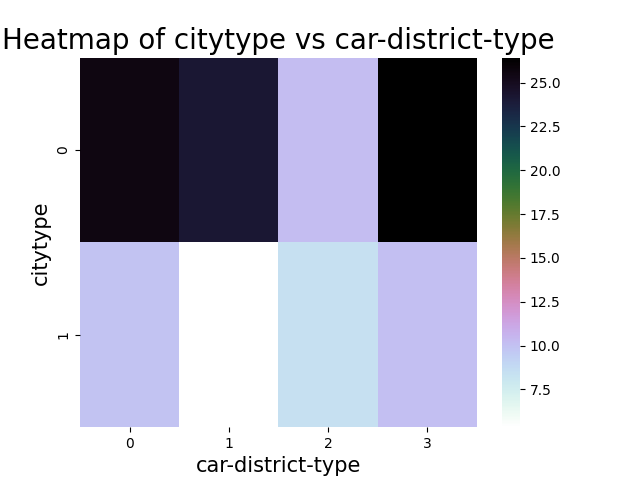
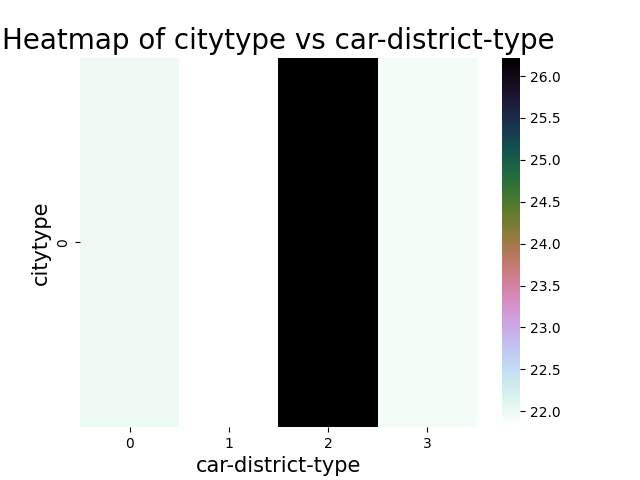
finsish a16823

diff --git a/a16823_ca_simulate_transport3/i4simulate_path_with_citymap.py b/a16823_ca_simulate_transport3/i4simulate_path_with_citymap.py
@@ -1,0 +1,298 @@
+
+import numpy as np
+import matplotlib.pyplot as plt
+import matplotlib.animation as animation
+from termcolor import colored, cprint
+
+import random
+import time
+import statistics
+from matplotlib import pyplot
+import seaborn as sns
+
+from mygrid import Grid
+from my_unittype import unit_types, inners, parkings, heats
+from car_district_setting import CarSetting
+from visualization import visulize_to_png, show_img, show_simplify_to_path
+import i2simulator 
+
+
+ALL_PATHS = []
+
+
+def mycar_walking(start, end, generated_map=[]):
+    # 待访问的格子
+    open_list = []
+    # 已访问的格子
+    close_list = []
+    # 把起点加入open_list
+    open_list.append(start)
+    # 主循环，每一轮检查一个当前方格节点
+    while len(open_list) > 0:
+        # 在open_list中查找 F值最小的节点作为当前方格节点
+        current_grid = find_current_grid(open_list)
+        # 当前方格节点从openList中移除
+        open_list.remove(current_grid)
+        # 当前方格节点进入 closeList
+        close_list.append(current_grid)
+        # 找到所有邻近节点
+        neighbors = find_neighbors(current_grid, open_list, close_list, generated_map)
+        for grid in neighbors:
+            if grid not in open_list:
+                # 邻近节点不在openList中，标记父亲、G、H、F，并放入openList
+                grid.init_grid(current_grid, end)
+                open_list.append(grid)
+        # 如果终点在openList中，直接返回终点格子
+        for grid in open_list:
+            if (grid.x == end.x) and (grid.y == end.y):
+                return grid
+    # openList用尽，仍然找不到终点，说明终点不可到达，返回空
+    return None
+
+
+def find_current_grid(open_list=[]):
+    temp_grid = open_list[0]
+    for grid in open_list:
+        if grid.f < temp_grid.f:
+            temp_grid = grid
+    return temp_grid
+
+
+def find_neighbors(grid, open_list=[], close_list=[], generated_map=[]):
+    grid_list = []
+    if is_valid_grid(grid.x, grid.y - 1, open_list, close_list, generated_map):
+        grid_list.append(Grid(grid.x, grid.y - 1))
+    if is_valid_grid(grid.x, grid.y + 1, open_list, close_list, generated_map):
+        grid_list.append(Grid(grid.x, grid.y + 1))
+    if is_valid_grid(grid.x - 1, grid.y, open_list, close_list, generated_map):
+        grid_list.append(Grid(grid.x - 1, grid.y))
+    if is_valid_grid(grid.x + 1, grid.y, open_list, close_list, generated_map):
+        grid_list.append(Grid(grid.x + 1, grid.y))
+    return grid_list
+
+
+def is_valid_grid(x, y, open_list=[], close_list=[], generated_map=[]):
+    MAZE = generated_map
+    # 是否超过边界
+    if x < 0 or x >= len(MAZE) or y < 0 or y >= len(MAZE[0]):
+        return False
+    # 是否有障碍物
+    if MAZE[x][y] == 1:
+        return False
+    # 是否已经在open_list中
+    if contain_grid(open_list, x, y):
+        return False
+    # 是否已经在closeList中
+    if contain_grid(close_list, x, y):
+        return False
+    return True
+
+
+def contain_grid(grids, x, y):
+    for grid in grids:
+        if (grid.x == x) and (grid.y == y):
+            return True
+    return False
+
+
+def all_walkable(generated_map):
+    walkables = []
+    for i in range(0, len(generated_map)):
+        for j in range(0, len(generated_map[0])):
+            if generated_map[i][j] != 1 :
+                walkables.append([i, j, generated_map[i][j]])
+    return walkables
+
+
+
+def single_turn(unittype, generated_map, CarSetting):
+    walkables = all_walkable(generated_map)
+    # print('walkables=', walkables, '#-# '*10)
+
+    #设置随机数种子seed
+    np.random.seed(456789)
+    #生成5个均值为len(walkables)//20，标准差为5的正态分布样本,模拟电量
+    r = np.random.normal(loc=len(walkables)//20, scale=5, size=5)
+
+    simulate_battery_init = int(r[random.randint(0, 4)])
+    print('正态分布样 simulate_battery_init:', simulate_battery_init)
+    s, e = None, None
+    #模拟早上和晚上
+    if random.randint(0, 1) == 0:
+        # 模拟早上
+        s = walkables[random.randint(0, len(walkables)-1)]
+        while s[2] != 2:
+            s = walkables[random.randint(0, len(walkables)-1)]
+        e = walkables[random.randint(0, len(walkables)-1)]
+    else:
+        # 模拟晚上,正好相反
+        e = walkables[random.randint(0, len(walkables)-1)]
+        while e[2] != 2:
+            e = walkables[random.randint(0, len(walkables)-1)]
+        s = walkables[random.randint(0, len(walkables)-1)]
+    start_grid = Grid(s[0], s[1])
+    end_grid = Grid(e[0], e[1]) 
+
+    print('-'*10, 'run new simulation turn', '-'*10, '\n')
+    # 设置起点和终点
+    # start_grid = Grid(2, 1)
+    # end_grid = Grid(2, 5)
+    # if CarSetting.behavior_type == 0 :
+    #     s = walkables[random.randint(0, len(walkables)//2)]
+    #     e = walkables[random.randint(len(walkables)//2, len(walkables)-1)]
+    #     start_grid = Grid(s[0], s[1])
+    #     end_grid = Grid(e[0], e[1])   
+    # if CarSetting.behavior_type == 1:
+    #     s = walkables[random.randint(0, len(walkables)//2)]
+    #     e = walkables[random.randint(len(walkables)//2, len(walkables)-1)]
+    #     start_grid = Grid(s[0], s[1])
+    #     if random.randint(0, 4) > 2:
+    #         end_grid = Grid(parkings[unittype][0], parkings[unittype][1])
+    #     else:
+    #         end_grid = Grid(e[0], e[1]) 
+    # if CarSetting.behavior_type == 2:
+    #     s = walkables[random.randint(0, len(walkables)//2)]
+    #     e = walkables[random.randint(len(walkables)//2, len(walkables)-1)]
+    #     if random.randint(0, 4) > 2:
+    #         start_grid = Grid(inners[unittype][0], inners[unittype][1])
+    #     else:
+    #         start_grid = Grid(s[0], s[1])
+    #     end_grid = Grid(e[0], e[1]) 
+    # if CarSetting.behavior_type == 3 :
+    #     s = walkables[random.randint(0, len(walkables)//3)]
+    #     e = walkables[random.randint(len(walkables)//3, len(walkables)-1)]
+    #     start_grid = Grid(s[0], s[1])
+    #     end_grid = Grid(e[0], e[1]) 
+
+
+    # 搜索街区终点
+    result_grid = mycar_walking(start_grid, end_grid, generated_map)
+    # 回溯街区路径
+    path = []
+    while result_grid is not None:
+        path.append(Grid(result_grid.x, result_grid.y))
+        result_grid = result_grid.parent
+    ALL_PATHS.append(path)
+    abel_score = 0
+    # 输出街区和路径，路径用星号表示
+    for i in range(0, len(generated_map)):
+        for j in range(0, len(generated_map[0])):
+            if contain_grid(path, i, j):
+                # star = colored('*', 'magenta', attrs=['reverse', 'blink'])
+                # print(star +", ", end="")
+                cprint('*'+", ","green",attrs=['reverse', 'blink'],end = "")
+                abel_score += 1
+            else:
+                if generated_map[i][j] == 1:
+                    cprint('1'+", ","grey",attrs=['reverse', 'blink'],end = "")
+                else:
+                    print(str(generated_map[i][j]) + ", ", end="")
+        print()
+    print('abel_score=', abel_score)
+    return abel_score
+
+def visual_to_png(res):
+    # res = [[0.01, 0.9, 0.46], [0.64, 0.24, 1], [0.87, 0.99, 0.47]]
+    # fig, ax = plt.subplots(figsize=(15,15)
+    colormap = pyplot.cm.cubehelix_r
+    fig, ax = plt.subplots()
+    ax = sns.heatmap(res, cmap=colormap)
+    # plt.yticks(rotation=0,fontsize=16);
+    # plt.xticks(fontsize=12);
+    # plt.tight_layout()
+    plt.title('Heatmap of citytype vs car-district-type', fontsize = 20) # title with fontsize 20
+    plt.xlabel('car-district-type', fontsize = 15) # x-axis label with fontsize 15
+    plt.ylabel('citytype', fontsize = 15) # y-axis label with fontsize 1
+    plt.savefig('i1colorlist.png')
+
+def hotmap(allpaths):
+    # res = [[0.01, 0.9, 0.46], [0.64, 0.24, 1], [0.87, 0.99, 0.47]]
+    # fig, ax = plt.subplots(figsize=(15,15)
+    generated_map = unit_types[0]
+    for path in allpaths:
+        for i in range(0, len(generated_map)):
+            for j in range(0, len(generated_map[0])):
+                if contain_grid(path, i, j):
+                    heats[i][j] += 1
+
+    for i in range(0, len(generated_map)):
+        for j in range(0, len(generated_map[0])):
+            if heats[i][j] == 0:
+                # 应该是封闭区间或者是道路的周边，需要进行差值法
+                if i != 0 and i!= len(generated_map) -1 and j!=0 and j<= len(generated_map) -2:
+                    heats[i][j] = (heats[i-1][j] + heats[i+1][j] + heats[i][j-1] + heats[i][j+1])/2
+            print(str(heats[i][j]) + ", ", end="")
+        print()
+    colormap = pyplot.cm.cubehelix_r
+    fig, ax = plt.subplots()
+    ax = sns.heatmap(heats, cmap=colormap)
+    # plt.yticks(rotation=0,fontsize=16);
+    # plt.xticks(fontsize=12);
+    # plt.tight_layout()
+    plt.title('Heatmap of station most needed', fontsize = 20) # title with fontsize 20
+    plt.xlabel('x', fontsize = 15) # x-axis label with fontsize 15
+    plt.ylabel('y', fontsize = 15) # y-axis label with fontsize 1
+    plt.savefig('i4heatmap.png')
+
+
+def main():
+
+    show_img("resources/i1geographical_urban.jpg")
+    time.sleep(3)
+
+
+
+    simulate_num = 160
+
+    mycarly_types = [None, None, None, None]
+
+    mycarly_types[0] = int(simulate_num * 0.35)
+    mycarly_types[1] = int(simulate_num * 0.30)
+    mycarly_types[2] = int(simulate_num * 0.20)
+    mycarly_types[3] = int(simulate_num * 0.15)
+
+    print('mycarly_types=', mycarly_types)
+    mydict = {}
+    visual_data = []
+    for i in range(len(unit_types)):
+        print('city_types =', i, '\n')
+        generated_map = unit_types[i]
+        for mycarly_type in range(len(mycarly_types)):
+            car_setting = CarSetting(mycarly_type)
+            car_setting.myprint()
+            scores = []
+            for j in range(mycarly_types[mycarly_type]):
+                score = single_turn(i, generated_map, car_setting)
+                scores.append(score)
+                time.sleep(random.uniform(0.1, 0.8))
+            mydict[i, mycarly_type] = scores
+
+    print('\n'*3)
+
+    welcome = colored('#'*10+' This statistics:'+'#'*10, 'red', attrs=['reverse', 'blink'])
+    print(welcome, '\n')
+    time.sleep(0.5)
+    for i in range(len(unit_types)):
+        type_data = []
+        for mycarly_type in range(len(mycarly_types)):
+            print('city type ', i, ' with mycar_type ', mycarly_type, 
+                    ' simulate scores:', mydict[i, mycarly_type])
+            x = round(statistics.mean(mydict[i, mycarly_type]), 2)
+            # 数据的总体方差
+            p = round(statistics.pvariance(mydict[i, mycarly_type]), 2)
+            print(colored('mean simulate scores =','red'), x)
+            print(colored('pvariance simulate scores =','blue'), p)
+            type_data.append(x)
+            # time.sleep(random.uniform(0.1, 0.5))
+        visual_data.append(type_data)
+    # print('#'*50,ALL_PATHS)
+    
+    # visual_to_png(type_data)
+    i2simulator.main(visual_data)
+    hotmap(ALL_PATHS)
+
+
+if __name__ == "__main__":
+    main()
+
+

diff --git a/a16823_ca_simulate_transport3/my_unittype.py b/a16823_ca_simulate_transport3/my_unittype.py
@@ -42,34 +42,68 @@ type_0 = [
     ]
 
 
-type_1 = [
-        [1, 1, 1, 0, 1, 1, 1, 1, 1, 1],
-        [1, 2, 2, 0, 1, 0, 0, 3, 3, 1],
-        [1, 2, 2, 0, 1, 0, 0, 0, 3, 1],
-        [1, 0, 0, 0, 0, 0, 0, 1, 2, 2],
-        [1, 0, 0, 0, 0, 0, 0, 2, 1, 2],
-	[1, 1, 1, 0, 1, 0, 2, 2, 2, 2],
-	[1, 0, 0, 0, 0, 0, 0, 1, 1, 1],
-	[1, 1, 0, 0, 0, 0, 0, 0, 0, 1],
-	[1, 1, 0, 0, 0, 0, 0, 0, 0, 1],
-	[1, 1, 0, 0, 0, 0, 0, 0, 0, 1],
-	[1, 1, 0, 0, 0, 0, 0, 0, 0, 1],
-	[0, 0, 0, 0, 0, 0, 0, 0, 0, 1],
-	[0, 0, 1, 0, 0, 0, 1, 0, 0, 1],
-	[1, 0, 1, 0, 0, 0, 1, 4, 4, 1],
-	[1, 0, 1, 0, 0, 0, 1, 4, 4, 1],
-	[1, 0, 1, 1, 1, 1, 1, 1, 1, 1],
+heats = [
+        [0, 0, 0, 0, 0, 0, 0, 0, 0, 0, 0, 0, 0, 0, 0, 0, 0, 0, 0, 0, 0, 0, 0, 0, 0, 0, 0, 0, 0, 0, 0, 0, 0],
+        [0, 0, 0, 0, 0, 0, 0, 0, 0, 0, 0, 0, 0, 0, 0, 0, 0, 0, 0, 0, 0, 0, 0, 0, 0, 0, 0, 0, 0, 0, 0, 0, 0],
+        [0, 0, 0, 0, 0, 0, 0, 0, 0, 0, 0, 0, 0, 0, 0, 0, 0, 0, 0, 0, 0, 0, 0, 0, 0, 0, 0, 0, 0, 0, 0, 0, 0],
+        [0, 0, 0, 0, 0, 0, 0, 0, 0, 0, 0, 0, 0, 0, 0, 0, 0, 0, 0, 0, 0, 0, 0, 0, 0, 0, 0, 0, 0, 0, 0, 0, 0],
+        [0, 0, 0, 0, 0, 0, 0, 0, 0, 0, 0, 0, 0, 0, 0, 0, 0, 0, 0, 0, 0, 0, 0, 0, 0, 0, 0, 0, 0, 0, 0, 0, 0],
+	[0, 0, 0, 0, 0, 0, 0, 0, 0, 0, 0, 0, 0, 0, 0, 0, 0, 0, 0, 0, 0, 0, 0, 0, 0, 0, 0, 0, 0, 0, 0, 0, 0],
+	[0, 0, 0, 0, 0, 0, 0, 0, 0, 0, 0, 0, 0, 0, 0, 0, 0, 0, 0, 0, 0, 0, 0, 0, 0, 0, 0, 0, 0, 0, 0, 0, 0],
+	[0, 0, 0, 0, 0, 0, 0, 0, 0, 0, 0, 0, 0, 0, 0, 0, 0, 0, 0, 0, 0, 0, 0, 0, 0, 0, 0, 0, 0, 0, 0, 0, 0],
+	[0, 0, 0, 0, 0, 0, 0, 0, 0, 0, 0, 0, 0, 0, 0, 0, 0, 0, 0, 0, 0, 0, 0, 0, 0, 0, 0, 0, 0, 0, 0, 0, 0],
+	[0, 0, 0, 0, 0, 0, 0, 0, 0, 0, 0, 0, 0, 0, 0, 0, 0, 0, 0, 0, 0, 0, 0, 0, 0, 0, 0, 0, 0, 0, 0, 0, 0],
+	[0, 0, 0, 0, 0, 0, 0, 0, 0, 0, 0, 0, 0, 0, 0, 0, 0, 0, 0, 0, 0, 0, 0, 0, 0, 0, 0, 0, 0, 0, 0, 0, 0],
+	[0, 0, 0, 0, 0, 0, 0, 0, 0, 0, 0, 0, 0, 0, 0, 0, 0, 0, 0, 0, 0, 0, 0, 0, 0, 0, 0, 0, 0, 0, 0, 0, 0],
+	[0, 0, 0, 0, 0, 0, 0, 0, 0, 0, 0, 0, 0, 0, 0, 0, 0, 0, 0, 0, 0, 0, 0, 0, 0, 0, 0, 0, 0, 0, 0, 0, 0],
+	[0, 0, 0, 0, 0, 0, 0, 0, 0, 0, 0, 0, 0, 0, 0, 0, 0, 0, 0, 0, 0, 0, 0, 0, 0, 0, 0, 0, 0, 0, 0, 0, 0],
+	[0, 0, 0, 0, 0, 0, 0, 0, 0, 0, 0, 0, 0, 0, 0, 0, 0, 0, 0, 0, 0, 0, 0, 0, 0, 0, 0, 0, 0, 0, 0, 0, 0],
+	[0, 0, 0, 0, 0, 0, 0, 0, 0, 0, 0, 0, 0, 0, 0, 0, 0, 0, 0, 0, 0, 0, 0, 0, 0, 0, 0, 0, 0, 0, 0, 0, 0],
+    	[0, 0, 0, 0, 0, 0, 0, 0, 0, 0, 0, 0, 0, 0, 0, 0, 0, 0, 0, 0, 0, 0, 0, 0, 0, 0, 0, 0, 0, 0, 0, 0, 0],
+        [0, 0, 0, 0, 0, 0, 0, 0, 0, 0, 0, 0, 0, 0, 0, 0, 0, 0, 0, 0, 0, 0, 0, 0, 0, 0, 0, 0, 0, 0, 0, 0, 0],
+	[0, 0, 0, 0, 0, 0, 0, 0, 0, 0, 0, 0, 0, 0, 0, 0, 0, 0, 0, 0, 0, 0, 0, 0, 0, 0, 0, 0, 0, 0, 0, 0, 0],
+	[0, 0, 0, 0, 0, 0, 0, 0, 0, 0, 0, 0, 0, 0, 0, 0, 0, 0, 0, 0, 0, 0, 0, 0, 0, 0, 0, 0, 0, 0, 0, 0, 0],
+	[0, 0, 0, 0, 0, 0, 0, 0, 0, 0, 0, 0, 0, 0, 0, 0, 0, 0, 0, 0, 0, 0, 0, 0, 0, 0, 0, 0, 0, 0, 0, 0, 0],
+	[0, 0, 0, 0, 0, 0, 0, 0, 0, 0, 0, 0, 0, 0, 0, 0, 0, 0, 0, 0, 0, 0, 0, 0, 0, 0, 0, 0, 0, 0, 0, 0, 0],
+	[0, 0, 0, 0, 0, 0, 0, 0, 0, 0, 0, 0, 0, 0, 0, 0, 0, 0, 0, 0, 0, 0, 0, 0, 0, 0, 0, 0, 0, 0, 0, 0, 0],
+	[0, 0, 0, 0, 0, 0, 0, 0, 0, 0, 0, 0, 0, 0, 0, 0, 0, 0, 0, 0, 0, 0, 0, 0, 0, 0, 0, 0, 0, 0, 0, 0, 0],
+	[0, 0, 0, 0, 0, 0, 0, 0, 0, 0, 0, 0, 0, 0, 0, 0, 0, 0, 0, 0, 0, 0, 0, 0, 0, 0, 0, 0, 0, 0, 0, 0, 0],
+	[0, 0, 0, 0, 0, 0, 0, 0, 0, 0, 0, 0, 0, 0, 0, 0, 0, 0, 0, 0, 0, 0, 0, 0, 0, 0, 0, 0, 0, 0, 0, 0, 0],
+	[0, 0, 0, 0, 0, 0, 0, 0, 0, 0, 0, 0, 0, 0, 0, 0, 0, 0, 0, 0, 0, 0, 0, 0, 0, 0, 0, 0, 0, 0, 0, 0, 0],
+	[0, 0, 0, 0, 0, 0, 0, 0, 0, 0, 0, 0, 0, 0, 0, 0, 0, 0, 0, 0, 0, 0, 0, 0, 0, 0, 0, 0, 0, 0, 0, 0, 0],
+	[0, 0, 0, 0, 0, 0, 0, 0, 0, 0, 0, 0, 0, 0, 0, 0, 0, 0, 0, 0, 0, 0, 0, 0, 0, 0, 0, 0, 0, 0, 0, 0, 0],
+	[0, 0, 0, 0, 0, 0, 0, 0, 0, 0, 0, 0, 0, 0, 0, 0, 0, 0, 0, 0, 0, 0, 0, 0, 0, 0, 0, 0, 0, 0, 0, 0, 0],
     ]
+# type_1 = [
+#         [1, 1, 1, 0, 1, 1, 1, 1, 1, 1],
+#         [1, 2, 2, 0, 1, 0, 0, 3, 3, 1],
+#         [1, 2, 2, 0, 1, 0, 0, 0, 3, 1],
+#         [1, 0, 0, 0, 0, 0, 0, 1, 2, 2],
+#         [1, 0, 0, 0, 0, 0, 0, 2, 1, 2],
+# 	[1, 1, 1, 0, 1, 0, 2, 2, 2, 2],
+# 	[1, 0, 0, 0, 0, 0, 0, 1, 1, 1],
+# 	[1, 1, 0, 0, 0, 0, 0, 0, 0, 1],
+# 	[1, 1, 0, 0, 0, 0, 0, 0, 0, 1],
+# 	[1, 1, 0, 0, 0, 0, 0, 0, 0, 1],
+# 	[1, 1, 0, 0, 0, 0, 0, 0, 0, 1],
+# 	[0, 0, 0, 0, 0, 0, 0, 0, 0, 1],
+# 	[0, 0, 1, 0, 0, 0, 1, 0, 0, 1],
+# 	[1, 0, 1, 0, 0, 0, 1, 4, 4, 1],
+# 	[1, 0, 1, 0, 0, 0, 1, 4, 4, 1],
+# 	[1, 0, 1, 1, 1, 1, 1, 1, 1, 1],
+#     ]
 
 
 
 unit_types.append(type_0)
-unit_types.append(type_1)
+# unit_types.append(type_1)
 
 # 内部封闭区域的入口（比如进入汉阳要上的收费口）的模拟
 inners.append([13, 7])
-inners.append([13, 8])
+
+# inners.append([13, 8])
 # 停车场模拟，车去那边概率会增加
 parkings.append([4, 7])
-parkings.append([4, 8])
+
+# parkings.append([4, 8])
 

diff --git a/a16823_ca_simulate_transport3/README.md b/a16823_ca_simulate_transport3/README.md
@@ -15,4 +15,4 @@ pip install --upgrade -r requirements.txt
 
 5.
 模拟运行在:
-python3 i1simulate_path_with_citymap.py
+python3 i4simulate_path_with_citymap.py
